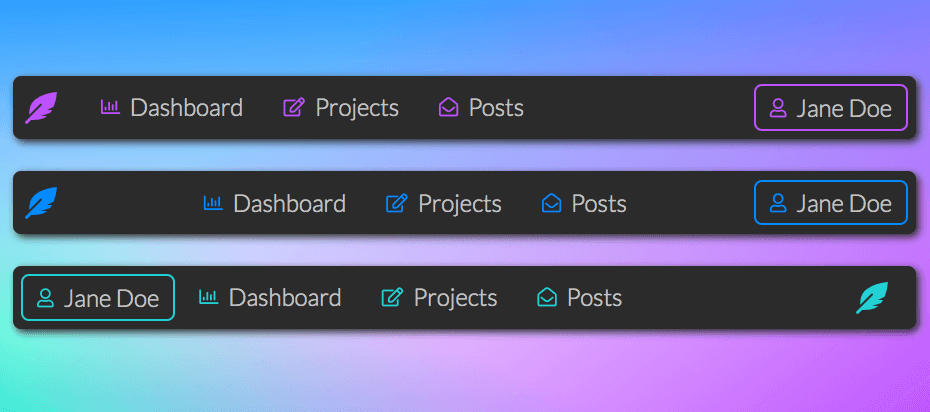
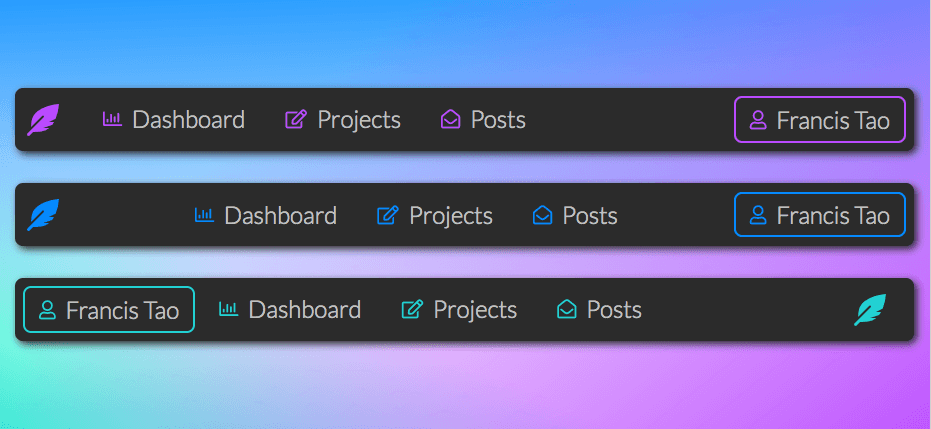
update navbar and readme

diff --git a/navbar/grid-layout-navbar/style.css b/navbar/grid-layout-navbar/style.css
@@ -35,6 +35,13 @@ main > * + * {
 header {
     display: grid;
     gap: 0.5rem;
+    padding: 0.5rem;
+    width: 100%;
+    min-width: 750px;
+    border-radius: 0.5rem;
+    background: var(--background-color);
+    box-shadow: 3px 3px 8px 0px var(--background-color);
+    font-family: 'Lato', sans-serif !important;
 }
 
 header.version-1 {
@@ -65,16 +72,6 @@ header.version-3 {
     --color: #22d1d3;
     grid-template-columns: max-content min-content auto min-content;
     grid-template-areas: "user nav . logo";
-}
-
-header {
-    padding: 0.5rem;
-    width: 100%;
-    min-width: 750px;
-    border-radius: 0.5rem;
-    background: var(--background-color);
-    box-shadow: 3px 3px 8px 0px var(--background-color);
-    font-family: 'Lato', sans-serif !important;
 }
 
 header a {

diff --git a/navbar/grid-layout-navbar/index.html b/navbar/grid-layout-navbar/index.html
@@ -29,7 +29,7 @@
                 </ul>
             </nav>
             <a class="user">
-                <i class="far fa-user"></i>Jane Doe
+                <i class="far fa-user"></i>Francis Tao
             </a>
         </header>
 
@@ -51,7 +51,7 @@
                 </ul>
             </nav>
             <a class="user">
-                <i class="far fa-user"></i>Jane Doe
+                <i class="far fa-user"></i>Francis Tao
             </a>
         </header>
 
@@ -73,7 +73,7 @@
                 </ul>
             </nav>
             <a class="user">
-                <i class="far fa-user"></i>Jane Doe
+                <i class="far fa-user"></i>Francis Tao
             </a>
         </header>
     </main>
